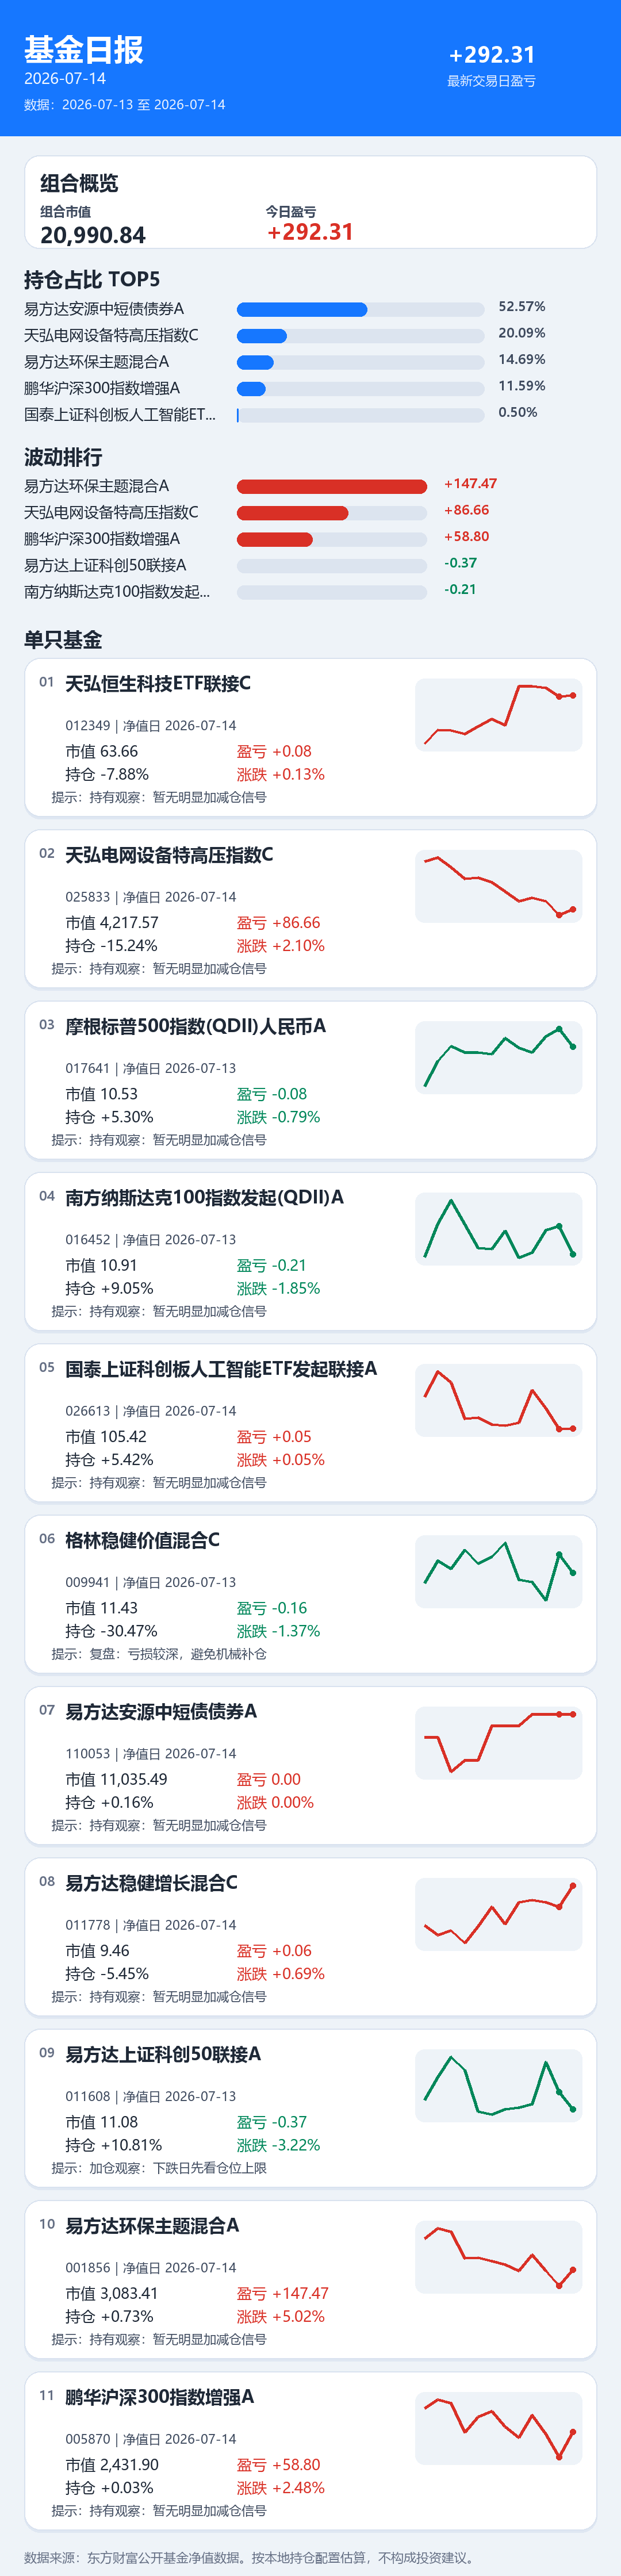
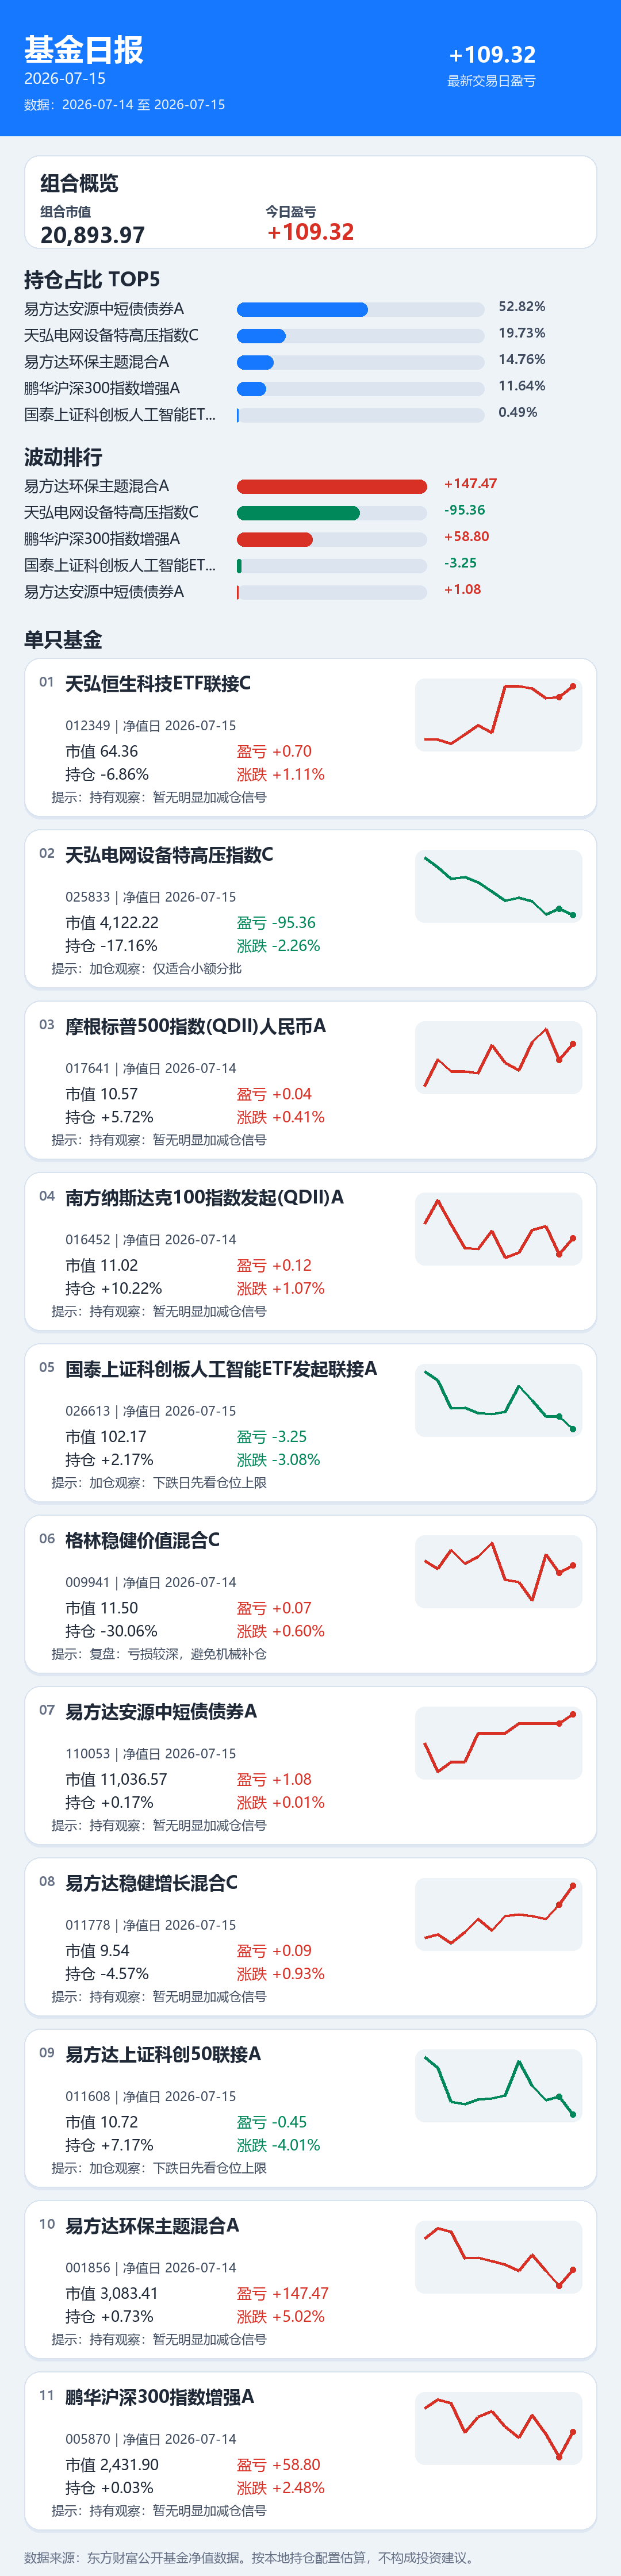
Update fund report

diff --git a/index.html b/index.html
@@ -4,7 +4,7 @@
   <meta charset="utf-8">
   <meta name="viewport" content="width=device-width, initial-scale=1">
   <meta name="color-scheme" content="light">
-  <title>基金日报 2026-07-14</title>
+  <title>基金日报 2026-07-15</title>
   <style>
     :root {
       --blue: #1677ff;
@@ -92,35 +92,35 @@
   <header class="report-header">
     <div class="header-inner">
       <div class="header-top">
-        <div><h1>基金日报</h1><p class="report-date">2026-07-14</p></div>
-        <div class="total-profit"><span>最新盈亏</span><strong class="up">+292.31</strong></div>
+        <div><h1>基金日报</h1><p class="report-date">2026-07-15</p></div>
+        <div class="total-profit"><span>最新盈亏</span><strong class="up">+109.32</strong></div>
       </div>
-      <p class="status">净值日期不一致：2026-07-13 至 2026-07-14 · 生成于 21:32</p>
+      <p class="status">净值日期不一致：2026-07-14 至 2026-07-15 · 生成于 21:32</p>
     </div>
   </header>
   <main>
     <section class="overview">
-      <div class="market-value"><h2>组合概览</h2><span>组合市值</span><strong>20,990.84</strong></div>
+      <div class="market-value"><h2>组合概览</h2><span>组合市值</span><strong>20,893.97</strong></div>
       <div><h2>持仓占比 TOP5</h2>
         <div class="position-row">
-          <div><span>易方达安源中短债债券A</span><strong>52.57%</strong></div>
-          <div class="bar"><i style="width:52.57287148892440089108600483%"></i></div>
+          <div><span>易方达安源中短债债券A</span><strong>52.82%</strong></div>
+          <div class="bar"><i style="width:52.82177349735380878086169863%"></i></div>
         </div>
         <div class="position-row">
-          <div><span>天弘电网设备特高压指数C</span><strong>20.09%</strong></div>
-          <div class="bar"><i style="width:20.09243436976311613211906253%"></i></div>
+          <div><span>天弘电网设备特高压指数C</span><strong>19.73%</strong></div>
+          <div class="bar"><i style="width:19.72921153537378867289570584%"></i></div>
         </div>
         <div class="position-row">
-          <div><span>易方达环保主题混合A</span><strong>14.69%</strong></div>
-          <div class="bar"><i style="width:14.68930445077891758244590849%"></i></div>
+          <div><span>易方达环保主题混合A</span><strong>14.76%</strong></div>
+          <div class="bar"><i style="width:14.75740932484872118733965915%"></i></div>
         </div>
         <div class="position-row">
-          <div><span>鹏华沪深300指数增强A</span><strong>11.59%</strong></div>
-          <div class="bar"><i style="width:11.58551241409145442319139465%"></i></div>
+          <div><span>鹏华沪深300指数增强A</span><strong>11.64%</strong></div>
+          <div class="bar"><i style="width:11.63922699715015095839969759%"></i></div>
         </div>
         <div class="position-row">
-          <div><span>国泰上证科创板人工智能ETF发起联接A</span><strong>0.50%</strong></div>
-          <div class="bar"><i style="width:0.5022190044672028222333072534%"></i></div>
+          <div><span>国泰上证科创板人工智能ETF发起联接A</span><strong>0.49%</strong></div>
+          <div class="bar"><i style="width:0.4889927449199294994848903435%"></i></div>
         </div></div>
     </section>
     <h2 class="funds-title">单只基金</h2>
@@ -130,18 +130,18 @@
           <span class="fund-index">01</span>
           <div>
             <h2>天弘恒生科技ETF联接C</h2>
-            <p>012349 · 净值日 2026-07-14</p>
+            <p>012349 · 净值日 2026-07-15</p>
           </div>
-          <strong class="growth up">+0.13%</strong>
+          <strong class="growth up">+1.11%</strong>
         </div>
         <div class="fund-body">
           <dl class="fund-stats">
-            <div><dt>市值</dt><dd>63.66</dd></div>
-            <div><dt>最新盈亏</dt><dd class="up">+0.08</dd></div>
-            <div><dt>持仓收益</dt><dd class="down">-7.88%</dd></div>
-            <div><dt>持仓占比</dt><dd>0.30%</dd></div>
+            <div><dt>市值</dt><dd>64.36</dd></div>
+            <div><dt>最新盈亏</dt><dd class="up">+0.70</dd></div>
+            <div><dt>持仓收益</dt><dd class="down">-6.86%</dd></div>
+            <div><dt>持仓占比</dt><dd>0.31%</dd></div>
           </dl>
-          <svg class="sparkline up" viewBox="0 0 240 76" role="img" aria-label="近12个净值点走势"><line class="spark-base" x1="10" y1="62" x2="230" y2="62"></line><polyline points="10.0,62.0 30.0,51.0 50.0,51.4 70.0,54.1 90.0,48.0 110.0,41.6 130.0,46.7 150.0,14.3 170.0,14.0 190.0,15.8 210.0,22.8 230.0,21.9"></polyline><circle cx="230.0" cy="21.9" r="4"></circle></svg>
+          <svg class="sparkline up" viewBox="0 0 240 76" role="img" aria-label="近12个净值点走势"><line class="spark-base" x1="10" y1="62" x2="230" y2="62"></line><polyline points="10.0,58.2 30.0,58.8 50.0,62.0 70.0,54.7 90.0,47.0 110.0,53.1 130.0,14.4 150.0,14.0 170.0,16.2 190.0,24.5 210.0,23.4 230.0,14.0"></polyline><circle cx="230.0" cy="14.0" r="4"></circle></svg>
         </div>
         <p class="hint">持有观察：暂无明显加减仓信号</p>
       </article>
@@ -150,38 +150,38 @@
           <span class="fund-index">02</span>
           <div>
             <h2>天弘电网设备特高压指数C</h2>
-            <p>025833 · 净值日 2026-07-14</p>
+            <p>025833 · 净值日 2026-07-15</p>
           </div>
-          <strong class="growth up">+2.10%</strong>
+          <strong class="growth down">-2.26%</strong>
         </div>
         <div class="fund-body">
           <dl class="fund-stats">
-            <div><dt>市值</dt><dd>4,217.57</dd></div>
-            <div><dt>最新盈亏</dt><dd class="up">+86.66</dd></div>
-            <div><dt>持仓收益</dt><dd class="down">-15.24%</dd></div>
-            <div><dt>持仓占比</dt><dd>20.09%</dd></div>
+            <div><dt>市值</dt><dd>4,122.22</dd></div>
+            <div><dt>最新盈亏</dt><dd class="down">-95.36</dd></div>
+            <div><dt>持仓收益</dt><dd class="down">-17.16%</dd></div>
+            <div><dt>持仓占比</dt><dd>19.73%</dd></div>
           </dl>
-          <svg class="sparkline up" viewBox="0 0 240 76" role="img" aria-label="近12个净值点走势"><line class="spark-base" x1="10" y1="62" x2="230" y2="62"></line><polyline points="10.0,17.4 30.0,14.0 50.0,22.3 70.0,32.2 90.0,30.8 110.0,35.0 130.0,42.7 150.0,50.8 170.0,48.1 190.0,50.9 210.0,62.0 230.0,57.4"></polyline><circle cx="230.0" cy="57.4" r="4"></circle></svg>
+          <svg class="sparkline down" viewBox="0 0 240 76" role="img" aria-label="近12个净值点走势"><line class="spark-base" x1="10" y1="62" x2="230" y2="62"></line><polyline points="10.0,14.0 30.0,22.2 50.0,32.1 70.0,30.7 90.0,34.8 110.0,42.5 130.0,50.5 150.0,47.7 170.0,50.6 190.0,61.5 210.0,57.0 230.0,62.0"></polyline><circle cx="230.0" cy="62.0" r="4"></circle></svg>
         </div>
-        <p class="hint">持有观察：暂无明显加减仓信号</p>
+        <p class="hint">加仓观察：仅适合小额分批</p>
       </article>
       <article class="fund-card">
         <div class="fund-heading">
           <span class="fund-index">03</span>
           <div>
             <h2>摩根标普500指数(QDII)人民币A</h2>
-            <p>017641 · 净值日 2026-07-13</p>
+            <p>017641 · 净值日 2026-07-14</p>
           </div>
-          <strong class="growth down">-0.79%</strong>
+          <strong class="growth up">+0.41%</strong>
         </div>
         <div class="fund-body">
           <dl class="fund-stats">
-            <div><dt>市值</dt><dd>10.53</dd></div>
-            <div><dt>最新盈亏</dt><dd class="down">-0.08</dd></div>
-            <div><dt>持仓收益</dt><dd class="up">+5.30%</dd></div>
+            <div><dt>市值</dt><dd>10.57</dd></div>
+            <div><dt>最新盈亏</dt><dd class="up">+0.04</dd></div>
+            <div><dt>持仓收益</dt><dd class="up">+5.72%</dd></div>
             <div><dt>持仓占比</dt><dd>0.05%</dd></div>
           </dl>
-          <svg class="sparkline down" viewBox="0 0 240 76" role="img" aria-label="近12个净值点走势"><line class="spark-base" x1="10" y1="62" x2="230" y2="62"></line><polyline points="10.0,62.0 30.0,41.2 50.0,28.7 70.0,34.1 90.0,34.1 110.0,35.1 130.0,21.8 150.0,30.1 170.0,33.8 190.0,20.4 210.0,14.0 230.0,28.9"></polyline><circle cx="230.0" cy="28.9" r="4"></circle></svg>
+          <svg class="sparkline up" viewBox="0 0 240 76" role="img" aria-label="近12个净值点走势"><line class="spark-base" x1="10" y1="62" x2="230" y2="62"></line><polyline points="10.0,62.0 30.0,39.9 50.0,49.6 70.0,49.6 90.0,51.3 110.0,27.8 130.0,42.4 150.0,49.0 170.0,25.3 190.0,14.0 210.0,40.3 230.0,26.8"></polyline><circle cx="230.0" cy="26.8" r="4"></circle></svg>
         </div>
         <p class="hint">持有观察：暂无明显加减仓信号</p>
       </article>
@@ -190,18 +190,18 @@
           <span class="fund-index">04</span>
           <div>
             <h2>南方纳斯达克100指数发起(QDII)A</h2>
-            <p>016452 · 净值日 2026-07-13</p>
+            <p>016452 · 净值日 2026-07-14</p>
           </div>
-          <strong class="growth down">-1.85%</strong>
+          <strong class="growth up">+1.07%</strong>
         </div>
         <div class="fund-body">
           <dl class="fund-stats">
-            <div><dt>市值</dt><dd>10.91</dd></div>
-            <div><dt>最新盈亏</dt><dd class="down">-0.21</dd></div>
-            <div><dt>持仓收益</dt><dd class="up">+9.05%</dd></div>
+            <div><dt>市值</dt><dd>11.02</dd></div>
+            <div><dt>最新盈亏</dt><dd class="up">+0.12</dd></div>
+            <div><dt>持仓收益</dt><dd class="up">+10.22%</dd></div>
             <div><dt>持仓占比</dt><dd>0.05%</dd></div>
           </dl>
-          <svg class="sparkline down" viewBox="0 0 240 76" role="img" aria-label="近12个净值点走势"><line class="spark-base" x1="10" y1="62" x2="230" y2="62"></line><polyline points="10.0,61.6 30.0,33.7 50.0,14.0 70.0,34.3 90.0,54.2 110.0,55.0 130.0,39.7 150.0,62.0 170.0,58.1 190.0,39.0 210.0,35.7 230.0,59.4"></polyline><circle cx="230.0" cy="59.4" r="4"></circle></svg>
+          <svg class="sparkline up" viewBox="0 0 240 76" role="img" aria-label="近12个净值点走势"><line class="spark-base" x1="10" y1="62" x2="230" y2="62"></line><polyline points="10.0,33.7 30.0,14.0 50.0,34.3 70.0,54.2 90.0,55.0 110.0,39.7 130.0,62.0 150.0,58.1 170.0,39.0 190.0,35.7 210.0,59.4 230.0,45.9"></polyline><circle cx="230.0" cy="45.9" r="4"></circle></svg>
         </div>
         <p class="hint">持有观察：暂无明显加减仓信号</p>
       </article>
@@ -210,38 +210,38 @@
           <span class="fund-index">05</span>
           <div>
             <h2>国泰上证科创板人工智能ETF发起联接A</h2>
-            <p>026613 · 净值日 2026-07-14</p>
+            <p>026613 · 净值日 2026-07-15</p>
           </div>
-          <strong class="growth up">+0.05%</strong>
+          <strong class="growth down">-3.08%</strong>
         </div>
         <div class="fund-body">
           <dl class="fund-stats">
-            <div><dt>市值</dt><dd>105.42</dd></div>
-            <div><dt>最新盈亏</dt><dd class="up">+0.05</dd></div>
-            <div><dt>持仓收益</dt><dd class="up">+5.42%</dd></div>
-            <div><dt>持仓占比</dt><dd>0.50%</dd></div>
+            <div><dt>市值</dt><dd>102.17</dd></div>
+            <div><dt>最新盈亏</dt><dd class="down">-3.25</dd></div>
+            <div><dt>持仓收益</dt><dd class="up">+2.17%</dd></div>
+            <div><dt>持仓占比</dt><dd>0.49%</dd></div>
           </dl>
-          <svg class="sparkline up" viewBox="0 0 240 76" role="img" aria-label="近12个净值点走势"><line class="spark-base" x1="10" y1="62" x2="230" y2="62"></line><polyline points="10.0,35.3 30.0,14.0 50.0,23.6 70.0,53.6 90.0,52.6 110.0,58.3 130.0,59.3 150.0,57.0 170.0,29.7 190.0,44.7 210.0,62.0 230.0,61.8"></polyline><circle cx="230.0" cy="61.8" r="4"></circle></svg>
+          <svg class="sparkline down" viewBox="0 0 240 76" role="img" aria-label="近12个净值点走势"><line class="spark-base" x1="10" y1="62" x2="230" y2="62"></line><polyline points="10.0,14.0 30.0,21.5 50.0,45.1 70.0,44.3 90.0,48.7 110.0,49.5 130.0,47.8 150.0,26.3 170.0,38.1 190.0,51.6 210.0,51.5 230.0,62.0"></polyline><circle cx="230.0" cy="62.0" r="4"></circle></svg>
         </div>
-        <p class="hint">持有观察：暂无明显加减仓信号</p>
+        <p class="hint">加仓观察：下跌日先看仓位上限</p>
       </article>
       <article class="fund-card">
         <div class="fund-heading">
           <span class="fund-index">06</span>
           <div>
             <h2>格林稳健价值混合C</h2>
-            <p>009941 · 净值日 2026-07-13</p>
+            <p>009941 · 净值日 2026-07-14</p>
           </div>
-          <strong class="growth down">-1.37%</strong>
+          <strong class="growth up">+0.60%</strong>
         </div>
         <div class="fund-body">
           <dl class="fund-stats">
-            <div><dt>市值</dt><dd>11.43</dd></div>
-            <div><dt>最新盈亏</dt><dd class="down">-0.16</dd></div>
-            <div><dt>持仓收益</dt><dd class="down">-30.47%</dd></div>
-            <div><dt>持仓占比</dt><dd>0.05%</dd></div>
+            <div><dt>市值</dt><dd>11.50</dd></div>
+            <div><dt>最新盈亏</dt><dd class="up">+0.07</dd></div>
+            <div><dt>持仓收益</dt><dd class="down">-30.06%</dd></div>
+            <div><dt>持仓占比</dt><dd>0.06%</dd></div>
           </dl>
-          <svg class="sparkline down" viewBox="0 0 240 76" role="img" aria-label="近12个净值点走势"><line class="spark-base" x1="10" y1="62" x2="230" y2="62"></line><polyline points="10.0,47.9 30.0,28.9 50.0,35.8 70.0,20.1 90.0,31.4 110.0,25.9 130.0,14.0 150.0,45.2 170.0,46.8 190.0,62.0 210.0,23.9 230.0,39.4"></polyline><circle cx="230.0" cy="39.4" r="4"></circle></svg>
+          <svg class="sparkline up" viewBox="0 0 240 76" role="img" aria-label="近12个净值点走势"><line class="spark-base" x1="10" y1="62" x2="230" y2="62"></line><polyline points="10.0,28.9 30.0,35.8 50.0,20.1 70.0,31.4 90.0,25.9 110.0,14.0 130.0,45.2 150.0,46.8 170.0,62.0 190.0,23.9 210.0,39.4 230.0,32.8"></polyline><circle cx="230.0" cy="32.8" r="4"></circle></svg>
         </div>
         <p class="hint">复盘：亏损较深，避免机械补仓</p>
       </article>
@@ -250,18 +250,18 @@
           <span class="fund-index">07</span>
           <div>
             <h2>易方达安源中短债债券A</h2>
-            <p>110053 · 净值日 2026-07-14</p>
+            <p>110053 · 净值日 2026-07-15</p>
           </div>
-          <strong class="growth flat">0.00%</strong>
+          <strong class="growth up">+0.01%</strong>
         </div>
         <div class="fund-body">
           <dl class="fund-stats">
-            <div><dt>市值</dt><dd>11,035.49</dd></div>
-            <div><dt>最新盈亏</dt><dd class="flat">0.00</dd></div>
-            <div><dt>持仓收益</dt><dd class="up">+0.16%</dd></div>
-            <div><dt>持仓占比</dt><dd>52.57%</dd></div>
+            <div><dt>市值</dt><dd>11,036.57</dd></div>
+            <div><dt>最新盈亏</dt><dd class="up">+1.08</dd></div>
+            <div><dt>持仓收益</dt><dd class="up">+0.17%</dd></div>
+            <div><dt>持仓占比</dt><dd>52.82%</dd></div>
           </dl>
-          <svg class="sparkline flat" viewBox="0 0 240 76" role="img" aria-label="近12个净值点走势"><line class="spark-base" x1="10" y1="62" x2="230" y2="62"></line><polyline points="10.0,33.2 30.0,33.2 50.0,62.0 70.0,52.4 90.0,52.4 110.0,23.6 130.0,23.6 150.0,23.6 170.0,14.0 190.0,14.0 210.0,14.0 230.0,14.0"></polyline><circle cx="230.0" cy="14.0" r="4"></circle></svg>
+          <svg class="sparkline up" viewBox="0 0 240 76" role="img" aria-label="近12个净值点走势"><line class="spark-base" x1="10" y1="62" x2="230" y2="62"></line><polyline points="10.0,38.0 30.0,62.0 50.0,54.0 70.0,54.0 90.0,30.0 110.0,30.0 130.0,30.0 150.0,22.0 170.0,22.0 190.0,22.0 210.0,22.0 230.0,14.0"></polyline><circle cx="230.0" cy="14.0" r="4"></circle></svg>
         </div>
         <p class="hint">持有观察：暂无明显加减仓信号</p>
       </article>
@@ -270,18 +270,18 @@
           <span class="fund-index">08</span>
           <div>
             <h2>易方达稳健增长混合C</h2>
-            <p>011778 · 净值日 2026-07-14</p>
+            <p>011778 · 净值日 2026-07-15</p>
           </div>
-          <strong class="growth up">+0.69%</strong>
+          <strong class="growth up">+0.93%</strong>
         </div>
         <div class="fund-body">
           <dl class="fund-stats">
-            <div><dt>市值</dt><dd>9.46</dd></div>
-            <div><dt>最新盈亏</dt><dd class="up">+0.06</dd></div>
-            <div><dt>持仓收益</dt><dd class="down">-5.45%</dd></div>
+            <div><dt>市值</dt><dd>9.54</dd></div>
+            <div><dt>最新盈亏</dt><dd class="up">+0.09</dd></div>
+            <div><dt>持仓收益</dt><dd class="down">-4.57%</dd></div>
             <div><dt>持仓占比</dt><dd>0.05%</dd></div>
           </dl>
-          <svg class="sparkline up" viewBox="0 0 240 76" role="img" aria-label="近12个净值点走势"><line class="spark-base" x1="10" y1="62" x2="230" y2="62"></line><polyline points="10.0,47.4 30.0,55.6 50.0,51.8 70.0,62.0 90.0,48.5 110.0,31.9 130.0,46.2 150.0,28.3 170.0,26.3 190.0,28.0 210.0,31.9 230.0,14.0"></polyline><circle cx="230.0" cy="14.0" r="4"></circle></svg>
+          <svg class="sparkline up" viewBox="0 0 240 76" role="img" aria-label="近12个净值点走势"><line class="spark-base" x1="10" y1="62" x2="230" y2="62"></line><polyline points="10.0,57.7 30.0,55.2 50.0,62.0 70.0,53.1 90.0,42.0 110.0,51.5 130.0,39.7 150.0,38.3 170.0,39.5 190.0,42.0 210.0,30.1 230.0,14.0"></polyline><circle cx="230.0" cy="14.0" r="4"></circle></svg>
         </div>
         <p class="hint">持有观察：暂无明显加减仓信号</p>
       </article>
@@ -290,18 +290,18 @@
           <span class="fund-index">09</span>
           <div>
             <h2>易方达上证科创50联接A</h2>
-            <p>011608 · 净值日 2026-07-13</p>
+            <p>011608 · 净值日 2026-07-15</p>
           </div>
-          <strong class="growth down">-3.22%</strong>
+          <strong class="growth down">-4.01%</strong>
         </div>
         <div class="fund-body">
           <dl class="fund-stats">
-            <div><dt>市值</dt><dd>11.08</dd></div>
-            <div><dt>最新盈亏</dt><dd class="down">-0.37</dd></div>
-            <div><dt>持仓收益</dt><dd class="up">+10.81%</dd></div>
+            <div><dt>市值</dt><dd>10.72</dd></div>
+            <div><dt>最新盈亏</dt><dd class="down">-0.45</dd></div>
+            <div><dt>持仓收益</dt><dd class="up">+7.17%</dd></div>
             <div><dt>持仓占比</dt><dd>0.05%</dd></div>
           </dl>
-          <svg class="sparkline down" viewBox="0 0 240 76" role="img" aria-label="近12个净值点走势"><line class="spark-base" x1="10" y1="62" x2="230" y2="62"></line><polyline points="10.0,50.4 30.0,31.1 50.0,14.0 70.0,25.3 90.0,59.6 110.0,62.0 130.0,57.7 150.0,56.6 170.0,53.5 190.0,18.4 210.0,43.5 230.0,58.0"></polyline><circle cx="230.0" cy="58.0" r="4"></circle></svg>
+          <svg class="sparkline down" viewBox="0 0 240 76" role="img" aria-label="近12个净值点走势"><line class="spark-base" x1="10" y1="62" x2="230" y2="62"></line><polyline points="10.0,14.0 30.0,23.3 50.0,51.5 70.0,53.5 90.0,49.9 110.0,49.0 130.0,46.5 150.0,17.6 170.0,38.2 190.0,50.2 210.0,47.5 230.0,62.0"></polyline><circle cx="230.0" cy="62.0" r="4"></circle></svg>
         </div>
         <p class="hint">加仓观察：下跌日先看仓位上限</p>
       </article>
@@ -319,7 +319,7 @@
             <div><dt>市值</dt><dd>3,083.41</dd></div>
             <div><dt>最新盈亏</dt><dd class="up">+147.47</dd></div>
             <div><dt>持仓收益</dt><dd class="up">+0.73%</dd></div>
-            <div><dt>持仓占比</dt><dd>14.69%</dd></div>
+            <div><dt>持仓占比</dt><dd>14.76%</dd></div>
           </dl>
           <svg class="sparkline up" viewBox="0 0 240 76" role="img" aria-label="近12个净值点走势"><line class="spark-base" x1="10" y1="62" x2="230" y2="62"></line><polyline points="10.0,22.8 30.0,14.0 50.0,17.3 70.0,39.4 90.0,38.8 110.0,41.8 130.0,44.4 150.0,49.8 170.0,36.1 190.0,49.9 210.0,62.0 230.0,49.0"></polyline><circle cx="230.0" cy="49.0" r="4"></circle></svg>
         </div>
@@ -339,7 +339,7 @@
             <div><dt>市值</dt><dd>2,431.90</dd></div>
             <div><dt>最新盈亏</dt><dd class="up">+58.80</dd></div>
             <div><dt>持仓收益</dt><dd class="up">+0.03%</dd></div>
-            <div><dt>持仓占比</dt><dd>11.59%</dd></div>
+            <div><dt>持仓占比</dt><dd>11.64%</dd></div>
           </dl>
           <svg class="sparkline up" viewBox="0 0 240 76" role="img" aria-label="近12个净值点走势"><line class="spark-base" x1="10" y1="62" x2="230" y2="62"></line><polyline points="10.0,21.3 30.0,14.0 50.0,17.3 70.0,41.4 90.0,28.7 110.0,23.8 130.0,36.9 150.0,45.7 170.0,27.1 190.0,43.0 210.0,62.0 230.0,41.1"></polyline><circle cx="230.0" cy="41.1" r="4"></circle></svg>
         </div>